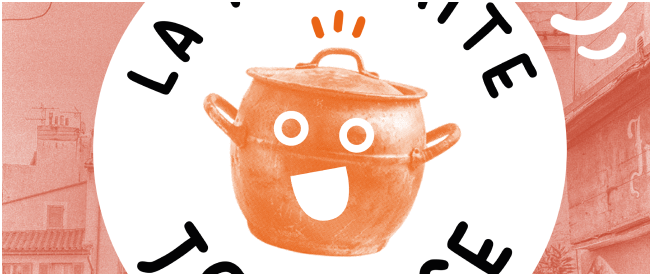
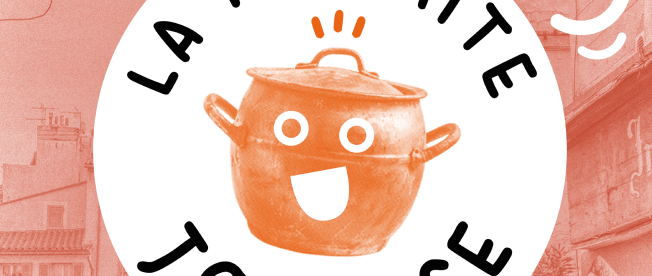
fix (index): project thumbnail no outline on mobile

diff --git a/styles/index.css b/styles/index.css
@@ -203,6 +203,7 @@
   height: auto;
   object-fit: cover;
   aspect-ratio: 650 / 274;
+  outline: 1px solid #ffffff;
 }
 
 .project-card__title {
@@ -252,9 +253,6 @@
   }
   .project-card {
     grid-column: span 3;
-  }
-  .project-card__thumbnail {
-    outline: 1px solid #ffffff;
   }
   #take-a-break,
   #marmite-joyeuse {
